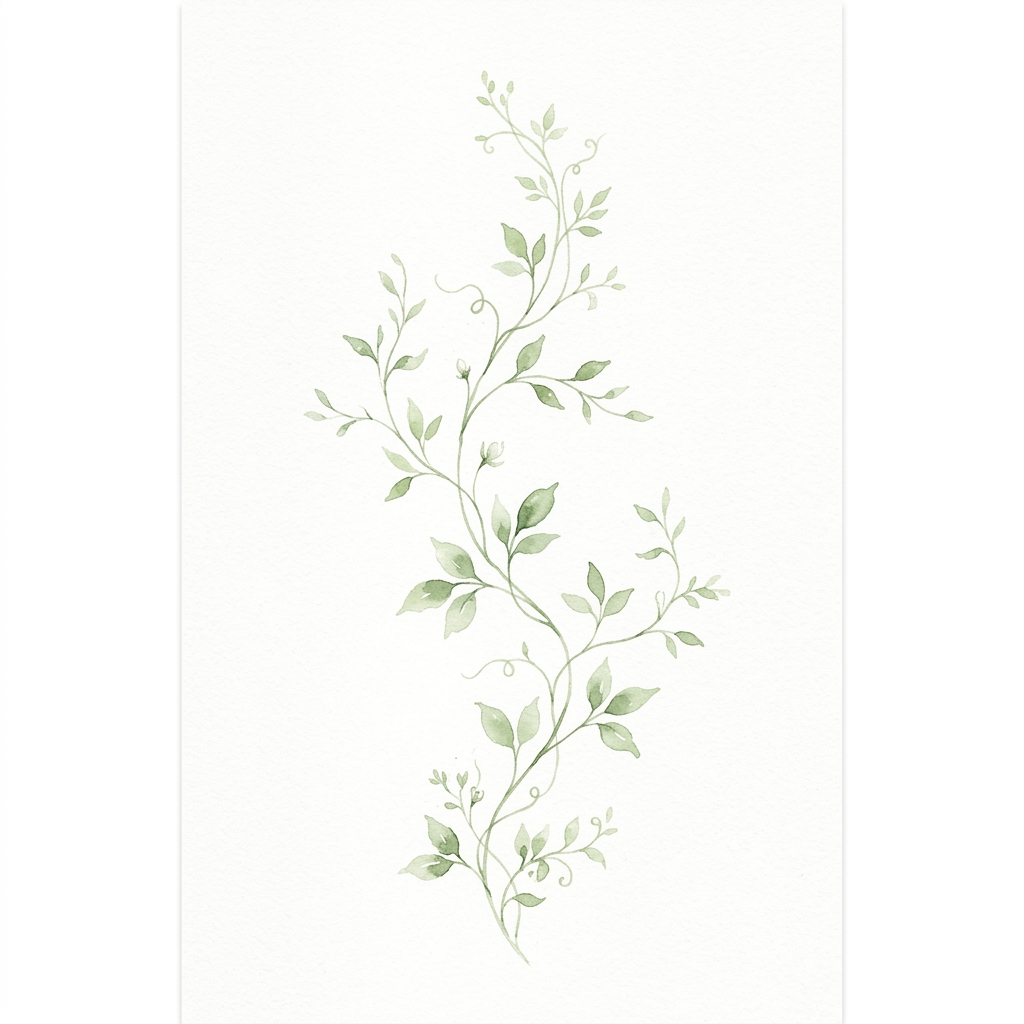
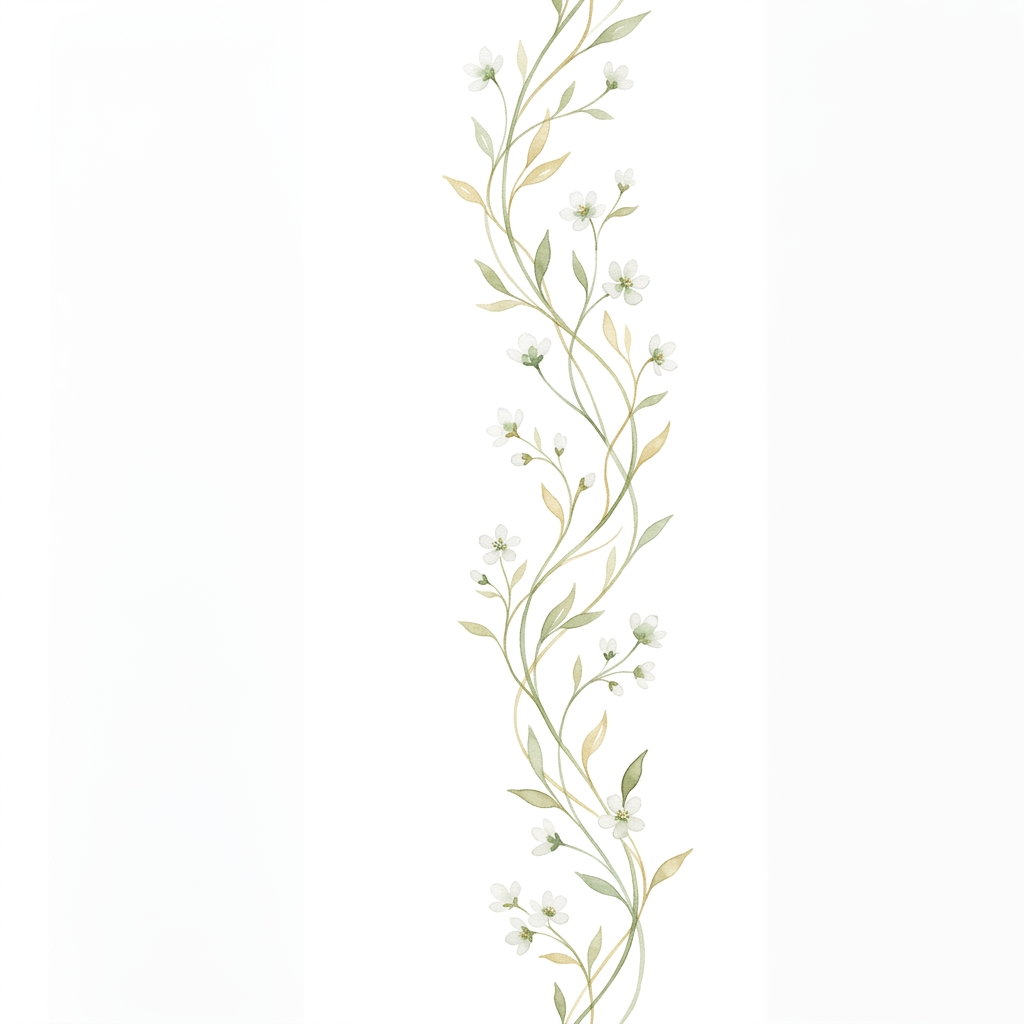
fix: eliminate floral squares and implement continuous botanical trail

Changed region(s): [[0.3125, 0.0, 0.7188, 1.0], [0.6562, 0.8125, 0.6875, 0.8438]]

diff --git a/src/components/layout/FloralBorders.css b/src/components/layout/FloralBorders.css
@@ -1,53 +1,73 @@
 /*
  * ── FloralBorders ──────────────────────────────────────────
- * Décorations botaniques fixes sur les côtés.
+ * Traînées botaniques continues sur les côtés.
  */
 
 .floral-frame {
   position: fixed;
   inset: 0;
   pointer-events: none;
-  z-index: 5; /* Positive z-index to stay above background but below most content */
+  z-index: 5; /* Au-dessus du fond mais derrière le contenu interactif */
   display: flex;
   justify-content: space-between;
-  mix-blend-mode: multiply;
+  mix-blend-mode: multiply; /* Fusion parfaite sur fond clair */
   opacity: 0;
-  animation: floral-fade-in 2s ease forwards;
-  animation-delay: 0.5s;
+  animation: floral-fade-in 2.5s ease forwards;
+  animation-delay: 0.3s;
 }
 
 @keyframes floral-fade-in {
   from { opacity: 0; }
-  to { opacity: 0.4; } /* Increased opacity for better visibility */
+  to { opacity: 0.45; }
 }
 
 .floral-border {
   height: 100vh;
-  width: 250px; /* Largeur généreuse pour les bords */
+  width: 180px; /* Plus fin et élégant */
   display: flex;
-  align-items: center;
+  position: relative;
+  
+  /* Dégradé doux en haut et en bas pour éviter les coupures nettes */
+  mask-image: linear-gradient(to bottom, 
+    transparent 0%, 
+    black 15%, 
+    black 85%, 
+    transparent 100%);
+  -webkit-mask-image: linear-gradient(to bottom, 
+    transparent 0%, 
+    black 15%, 
+    black 85%, 
+    transparent 100%);
 }
 
-.floral-border img {
+.floral-border-inner {
   width: 100%;
   height: 100%;
-  object-fit: contain;
-  filter: sepia(30%) contrast(90%); /* Un peu plus chaud pour l'aspect "âme" */
+  background-repeat: repeat-y;
+  background-position: center top;
+  background-size: 100% auto;
+  
+  /* CRITIQUE : Filtres pour blanchir le fond et supprimer les "carrés" */
+  filter: brightness(1.15) contrast(1.1);
 }
 
-.floral-border--left {
-  justify-content: flex-start;
-  transform: translateX(-5%); /* Less hidden for better initial visibility */
+.floral-border--left .floral-border-inner {
+  background-image: url('/images/decorations/floral-left.png');
+  transform: translateX(-15%); /* Légèrement déporté vers le bord */
 }
 
-.floral-border--right {
-  justify-content: flex-end;
-  transform: translateX(5%);
+.floral-border--right .floral-border-inner {
+  background-image: url('/images/decorations/floral-right.png');
+  transform: translateX(15%);
 }
 
-/* ── Masquage sur mobile pour éviter la surcharge ─────────── */
+/* ── Responsive ────────────────────────────────────────────── */
+@media (max-width: 1200px) {
+  .floral-border { width: 140px; }
+}
+
 @media (max-width: 1024px) {
   .floral-frame {
-    display: none;
+    display: none; /* Toujours masqué sur mobile pour la clarté */
   }
 }

diff --git a/src/components/layout/FloralBorders.tsx b/src/components/layout/FloralBorders.tsx
@@ -9,10 +9,10 @@ export default function FloralBorders() {
   return (
     <div className="floral-frame" aria-hidden="true">
       <div className="floral-border floral-border--left">
-        <img src="/images/decorations/floral-left.png" alt="" />
+        <div className="floral-border-inner" />
       </div>
       <div className="floral-border floral-border--right">
-        <img src="/images/decorations/floral-right.png" alt="" />
+        <div className="floral-border-inner" />
       </div>
     </div>
   );
